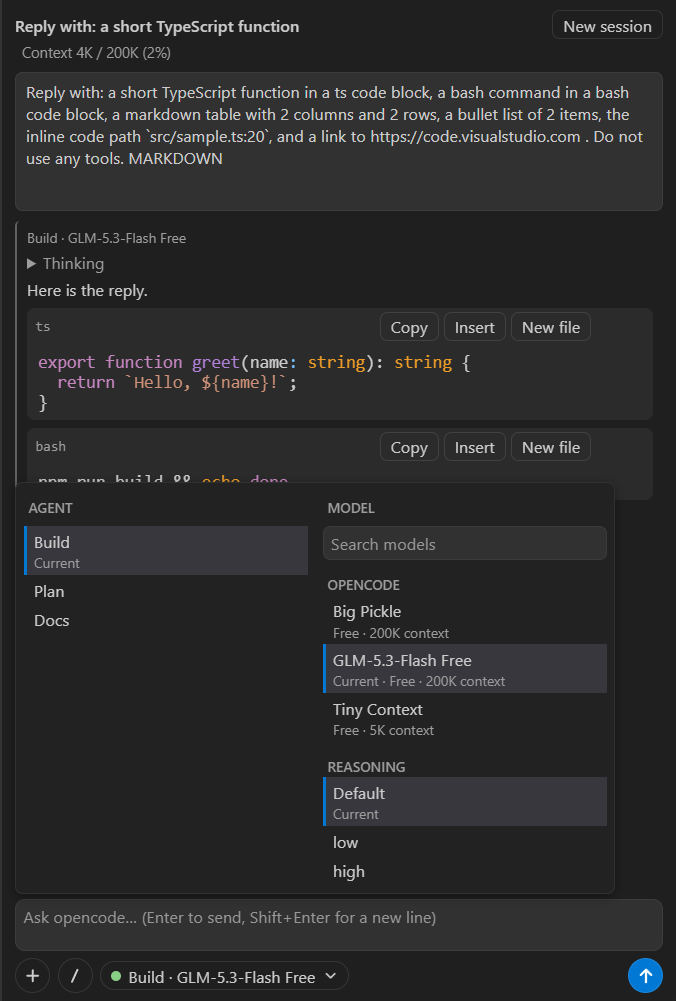
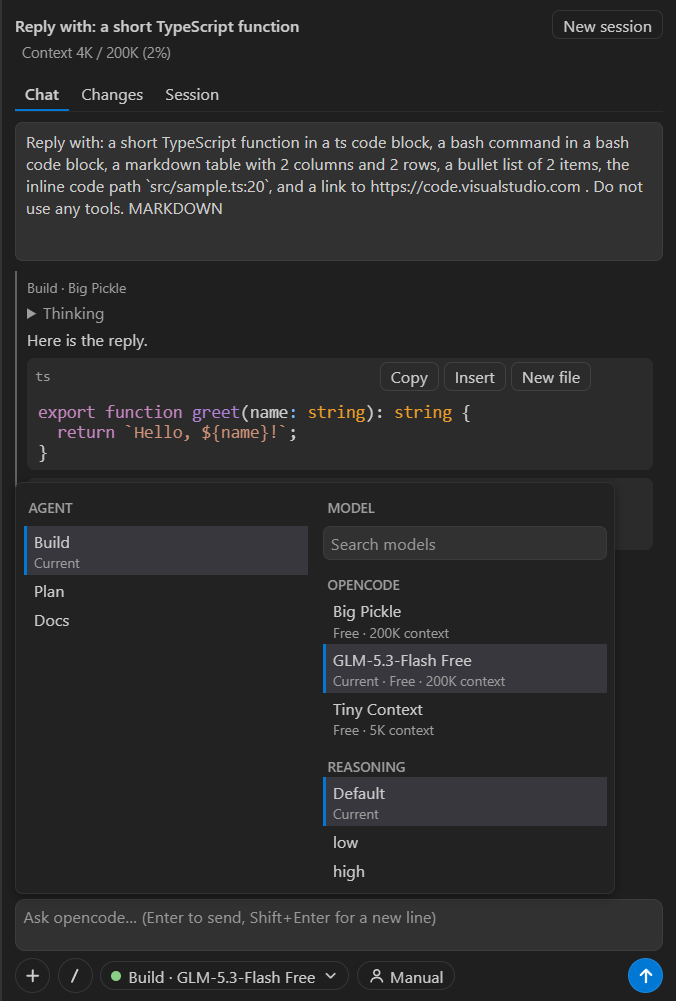
docs: describe the chat panel tabs, the queue and pinned instructions

diff --git a/README.md b/README.md
@@ -126,7 +126,28 @@ affiliated with opencode or with Microsoft.
   re-attach files but not pasted images**: paste them again.
 - **Context and cost:** a line under the session title shows how much of the model's context the
   last step used and, when the model is not free, what the session cost so far, direct subagents
-  included.
+  included. From 80 % of the window the line gains a **Compact** button, which is the warning that
+  the context is nearly full; the same figures, a meter and Compact are in the **Session** tab.
+- **Chat, Changes and Session tabs:** a row of tabs under the header switches the central area
+  between the conversation, the files the session changed, and the session's own page. The request
+  cards, the subagent strip, the activity line and the prompt box stay visible in all three, so a
+  permission request is never hidden. The tab you chose is kept when you hide and show the view.
+  **Session** holds the pinned instructions (see below), the context meter with Compact, the token
+  and cost totals, the session's subagents with Open, and **Export** (Markdown, or JSON, to a file
+  you pick; the JSON holds the full text of the conversation and the file paths, so do not attach it
+  to a public report).
+- **Write while the agent works:** the prompt box stays open during a turn. Enter **queues** the
+  message (a chip "Queued: …" appears above the box, with Steer now, Edit and a remove button; the
+  server delivers it when the turn ends) and Ctrl+Enter (Cmd+Enter on macOS) **steers** the turn
+  with it right away. Edit cancels the chip and gives its text back to an empty box. Stop and the
+  activity line (what the agent is doing, the step number, the elapsed time and how many subagents
+  run) are at the bottom of the conversation. While a turn runs, a model or agent you picked in the
+  box applies from the next message sent while idle, and `/commands` of the server are refused with
+  a notice until the turn ends (`/compact` is queued).
+- **Pinned instructions:** the Session tab can pin short instructions to the session ("Always answer
+  in Galician"); opencode sends them with every step. A value that is not plain text, pinned by
+  another client, shows as JSON with a "set by another client" tag and can be removed too. They use
+  opencode's experimental instructions API, so a newer opencode may change it.
 - **Subagent monitor:** while a subagent works or waits, a strip above the prompt box reads
   "Subagents · N" with how many work and how many wait for your answer; open it for one row per
   subagent (agent, task, current tool, elapsed time) with Open, Answer (only when it waits on a
@@ -134,9 +155,9 @@ affiliated with opencode or with Microsoft.
   conversation, the block of each `subagent` call becomes a live card (its latest tools, Open,
   Stop) and folds into "Finished · N tools · cost", "Stopped" or "Failed: reason" when the subagent
   ends. It works in the side bar and in chat tabs.
-- **Changed files:** a "Changed files (N)" list under the header shows what the agent changed in
-  the session (git repositories only); a click opens VS Code's own diff editor with the original on
-  the left and the file on the right.
+- **Changed files:** the **Changes** tab shows "Changed files (N)", what the agent changed in the
+  session (git repositories only), and its badge carries the number; a click opens VS Code's own
+  diff editor with the original on the left and the file on the right.
 - **Revert from a message:** "Revert from here" on one of your messages undoes that turn and
   everything after it, files included, and hides those messages. A block under the conversation
   lists the files it restored, "Restore" brings everything back and "Discard for good" deletes the

diff --git a/CHANGELOG.md b/CHANGELOG.md
@@ -20,6 +20,18 @@ adheres to [Semantic Versioning](https://semver.org/spec/v2.0.0.html).
 
 ### Added
 
+- **Chat, Changes and Session tabs in the chat panel.** A row of tabs under the header switches the
+  central area; the request cards, the subagent strip, the activity line and the prompt box stay in
+  all three. **Changes** holds the files the session changed (moved out of the header). **Session**
+  holds pinned instructions, a context meter with Compact, token and cost totals, the session's
+  subagents with Open, and **Export** to Markdown or JSON (the JSON holds the full text and file
+  paths). The context line under the title gains a **Compact** button from 80 % of the window.
+- **Write while the agent works.** During a turn Enter queues the message (a "Queued: …" chip with
+  Steer now, Edit and remove) and Ctrl+Enter (Cmd+Enter on macOS) steers the turn with it right
+  away. Stop moved to the activity line at the bottom, which now says what the agent is doing, the
+  step, the elapsed time and how many subagents run.
+- **Pinned instructions per session** ("Always answer in Galician"), sent by opencode with every
+  step. They and Export use opencode's experimental API, so a newer opencode may change them.
 - **The shell of opencode in Settings › Advanced.** A drop-down with Automatic and the shells the
   server offers (the ones opencode only accepts for the terminal are marked). It is saved in your
   global opencode config, so it also applies to the terminal UI and every folder; a hint says when
